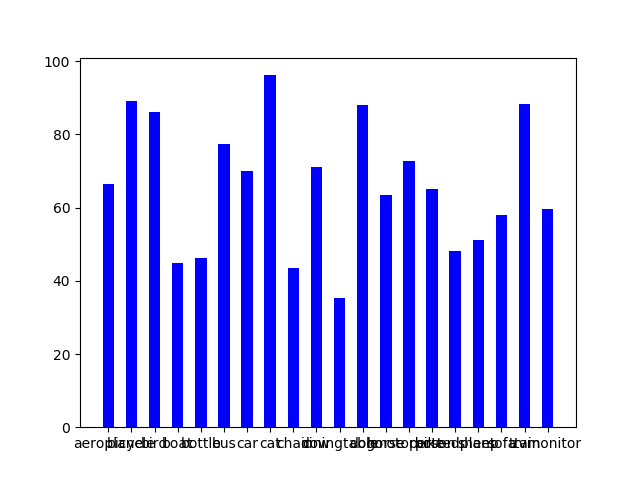
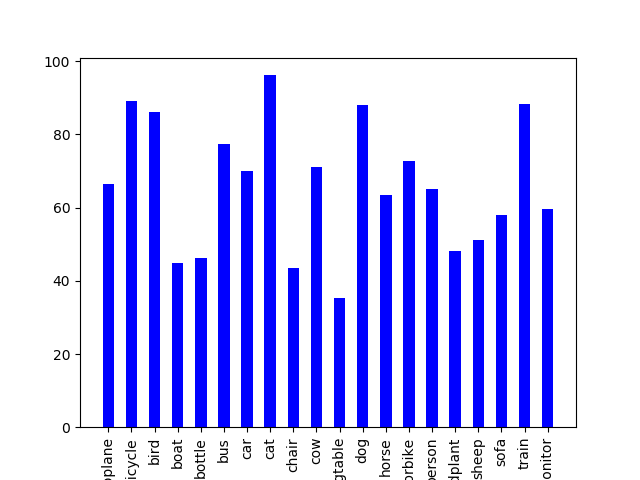
visuliation

Changed region(s): [[0.0938, 0.9062, 0.9062, 1.0]]

diff --git a/visualization/visualize.py b/visualization/visualize.py
@@ -4,13 +4,17 @@ import os
 
 
 def save_charts():
+    plt.xticks(rotation=90)
     file_list = os.listdir('outputs/')
     for processed_file in file_list:
         output_image = 'charts/' + processed_file.replace('_output.txt', '') + "_bar.png"
         df = pd.read_csv('outputs/' + processed_file)
         ax = plt.subplot(111)
         ax.bar(df['class_name'], df['mAP'], width=0.5, color='b', align='center')
-        # Fplt.show()
+
+
+        # plt.show()
+        # plt.figure(figsize=(8, 4))
         plt.savefig(output_image)
 
 
